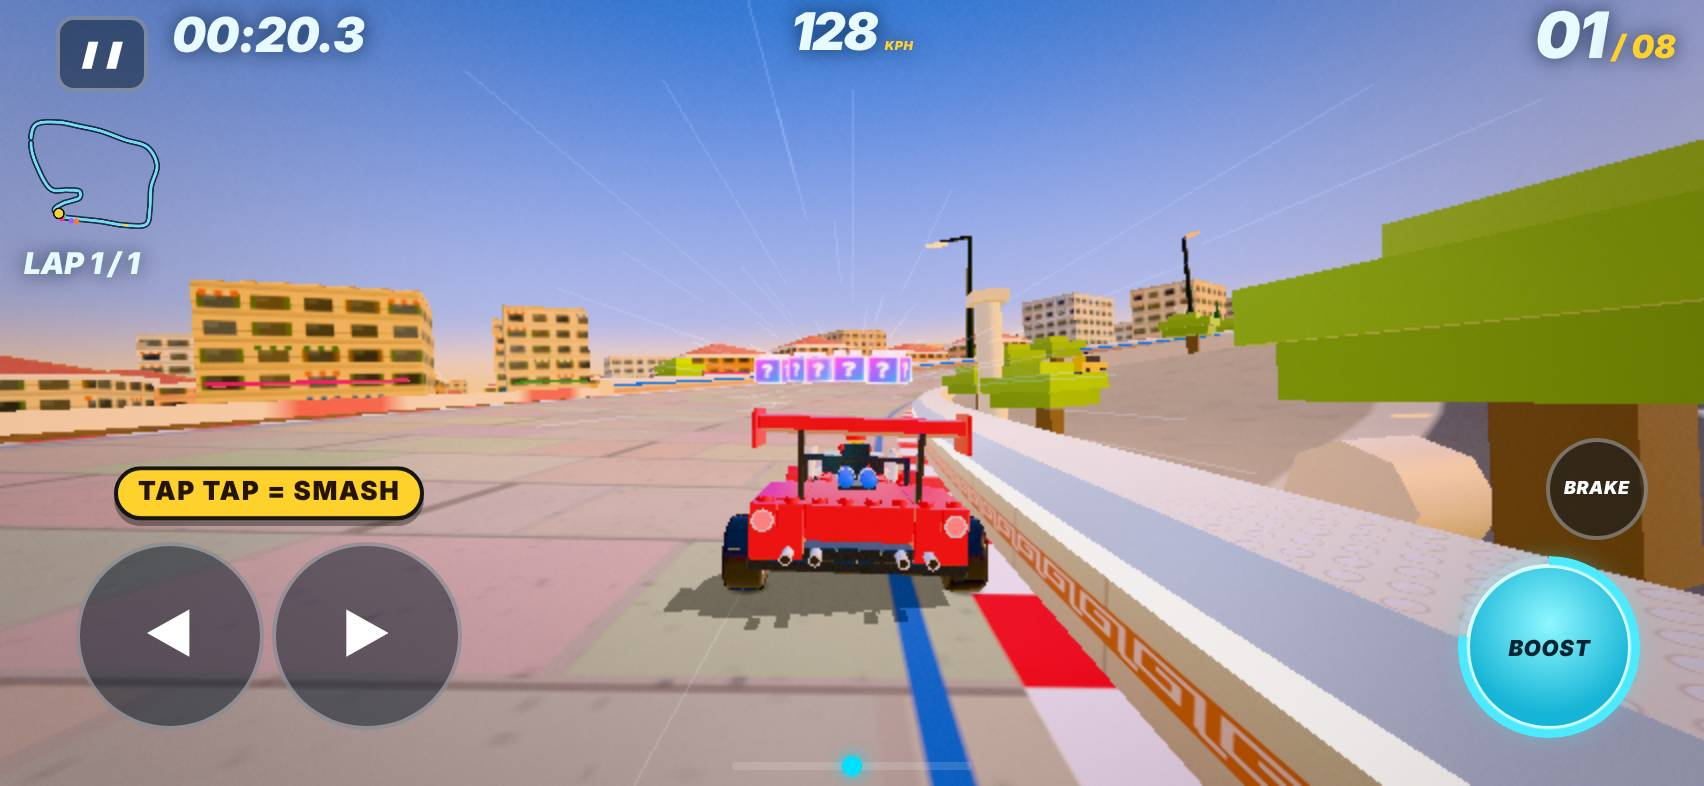
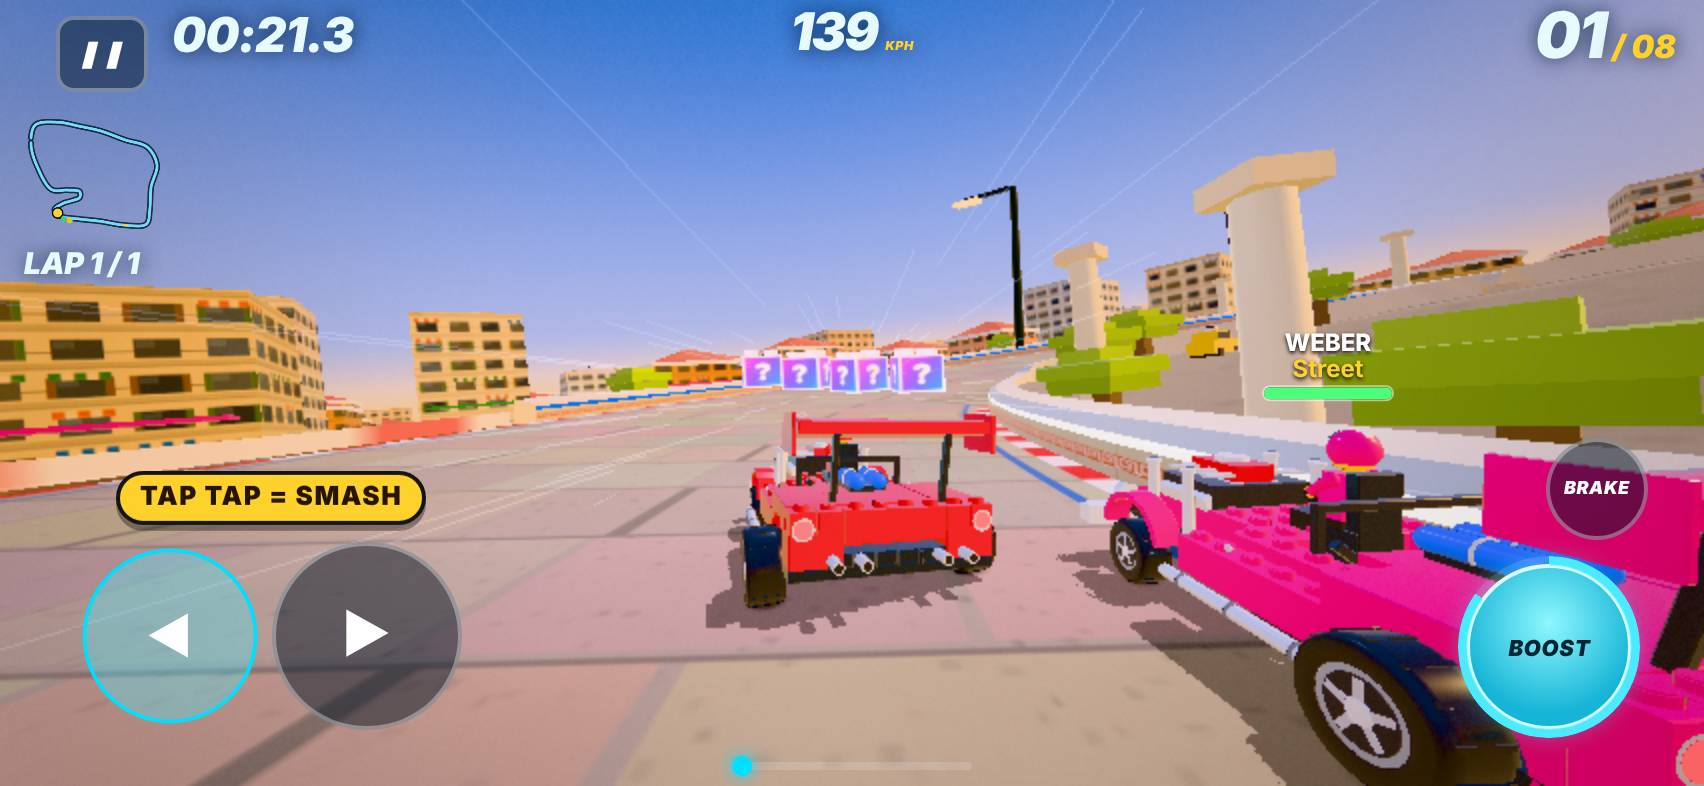
race17: re-shoot low side views (player beside AI, wheel height) grand+akro, akro beside-AI frame; tRace side shot only on asphalt, AI within 4.5 m

diff --git a/tools/tRace.js b/tools/tRace.js
@@ -82,8 +82,8 @@ const ST=`(()=>{const E=__oc.ev;return E('(()=>{const s=pl;if(!s)return {state};
    // corner strip: 3 frames at apex-70 m, apex, apex+70 m (the track's tightest corner)
    if(X.apex){for(const [o,nm] of [[-70,'a_entry'],[0,'b_apex'],[70,'c_exit']]){const dd=((X.apex[0]+o-s.dist)%s.L+s.L)%s.L;if(!X[nm]&&dd<s.v*STEP/60*1.2&&s.lap>=0){X[nm]=1;const c=await p.evaluate(()=>__oc.ev('(()=>{const f=frameAt(TD,pl.dist,mkF());const cd=camera.getWorldDirection(new THREE.Vector3());const ang=v=>Math.atan2(v.dot(f.r),v.dot(f.t))*57.3;const md=new THREE.Vector3(0,0,1).transformDirection(pl.mesh.matrixWorld);return {kmh:Math.round(pl.v*3.6),beta:+(pl.beta*57.3).toFixed(1),yaw:+(pl.yaw*57.3).toFixed(1),car:+ang(md).toFixed(1),cam:+ang(cd).toFixed(1),x:+pl.x.toFixed(1),k:+(1/Math.max(1e-6,Math.abs(kAt(TD,pl.dist)))).toFixed(0)}})()'));X.log.push('corner '+nm+' '+JSON.stringify(c));await shot('corner_'+nm)}}}
    // beside an opponent: chase view + a low side view of both cars
-   if(!X.side&&rt>20){const nb=await p.evaluate(()=>__oc.ev('(()=>{const o=ships.filter(q=>q!==pl&&!q.eliminated&&!q.air).map(q=>[q,tdd(q.dist,pl.dist)]).filter(a=>Math.abs(a[1])<9).sort((a,b)=>Math.abs(a[1])-Math.abs(b[1]))[0];return o?{i:ships.indexOf(o[0]),dd:o[1],x:o[0].x}:null})()'));
-    if(nb&&!pl_air(s)){X.side=1;await shot('beside_ai');await shotCam('side_low',`{const o=ships[${nb.i}];const f=frameAt(TD,(pl.dist+o.dist)/2,mkF());const xs=[pl.x,o.x],hi=Math.max(...xs),lo=Math.min(...xs);const cx=(HALF-1-hi)>(lo+HALF-1)?Math.min(HALF-1,hi+10):Math.max(-HALF+1,lo-10);const m=pl.mesh.position.clone().add(o.mesh.position).multiplyScalar(.5);const P=f.p.clone().addScaledVector(f.r,cx);P.y=m.y+.55;camera.position.copy(P);camera.lookAt(m.x,m.y+.5,m.z);camera.updateMatrixWorld()}`);X.log.push('side '+JSON.stringify(nb))}}
+   if(!X.side&&rt>20){const nb=await p.evaluate(()=>__oc.ev('(()=>{const o=ships.filter(q=>q!==pl&&!q.eliminated&&!q.air).map(q=>[q,tdd(q.dist,pl.dist)]).filter(a=>Math.abs(a[1])<4.5&&!a[0].air&&(a[0].terrain||"road")==="road"&&!(a[0].boatK>.1)).sort((a,b)=>Math.abs(a[1])-Math.abs(b[1]))[0];return o&&!pl.air&&!(pl.webT>0)&&(pl.terrain||"road")==="road"&&!(pl.boatK>.1)&&Math.abs(o[0].x-pl.x)<9?{i:ships.indexOf(o[0]),dd:o[1],x:o[0].x,px:pl.x}:null})()'));
+    if(nb&&!pl_air(s)){X.side=1;await shot('beside_ai');await shotCam('side_low',`{const o=ships[${nb.i}];const f=frameAt(TD,(pl.dist+o.dist)/2,mkF());const xs=[pl.x,o.x],hi=Math.max(...xs),lo=Math.min(...xs);const cx=(HALF-1-hi)>(lo+HALF-1)?Math.min(HALF-1,hi+8):Math.max(-HALF+1,lo-8);const m=pl.mesh.position.clone().add(o.mesh.position).multiplyScalar(.5);const P=f.p.clone().addScaledVector(f.r,cx).addScaledVector(f.t,10);P.y=m.y+.8;camera.position.copy(P);camera.lookAt(m.x,m.y+.5,m.z);camera.updateMatrixWorld()}`);X.log.push('side '+JSON.stringify(nb))}}
    // WEB hit on the player from the racer right behind (the game's own item code), shots 0.3 s and 2.2 s later
    if(!X.web&&rt>50&&!s.rts?.in){X.web=rt;X.log.push('web '+await p.evaluate(()=>__oc.ev('(()=>{const o=ships.filter(q=>q!==pl&&!q.eliminated&&!q.finished).map(q=>[q,tdd(pl.dist,q.dist)]).filter(a=>a[1]>0).sort((a,b)=>a[1]-b[1])[0];if(!o)return "none";o[0].item="web";useItem(o[0]);return "from "+Math.round(o[1])+" m, webT "+pl.webT})()')))}
    if(X.web&&!X.w1&&rt>X.web+.3){X.w1=1;await shot('web_hit_0.3s')}if(X.web&&!X.w2&&rt>X.web+2.2){X.w2=1;await shot('web_hit_2.2s')}
